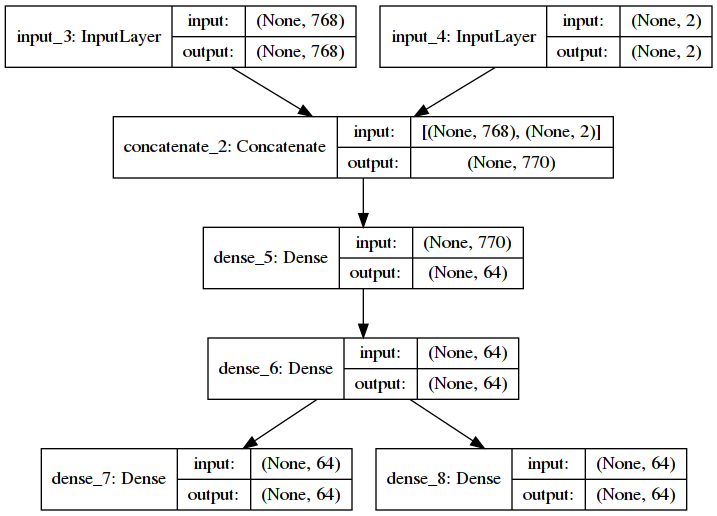
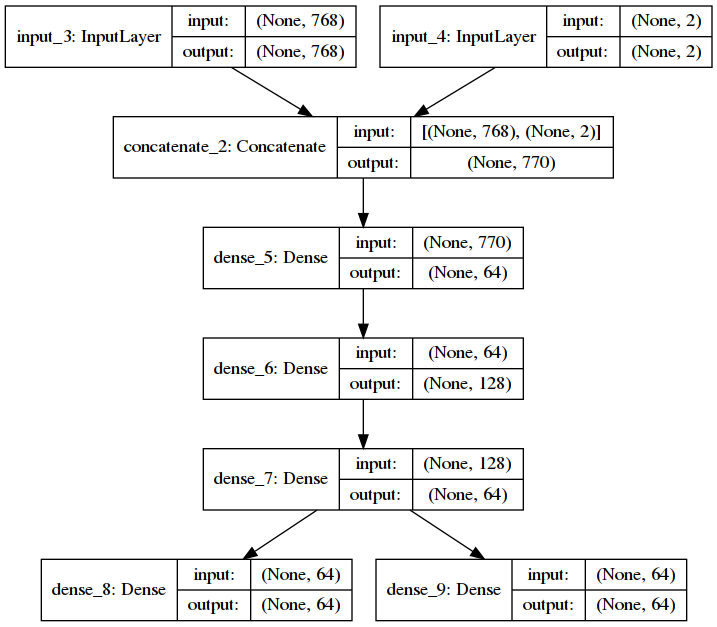
Let it be for now

Changed region(s): [[0.0, 0.0, 1.0, 0.9922]]

diff --git a/nn.py b/nn.py
@@ -20,15 +20,16 @@ PIECE_MOBILITY = {
 
 
 class NN(object):
-    def __init__(self, filename) -> None:
+    def __init__(self, filename, param) -> None:
         super().__init__()
+        self._learning_data = []
+        self._opps_mobility = 0
+        self._param = param
         if os.path.exists(filename):
             self._model = models.load_model(filename)
         else:
             self._model = self._get_nn()
         self._model.summary(print_fn=logging.debug)
-        self._learning_data = []
-        self._opps_mobility = 0
 
     def save(self, filename):
         self._model.save(filename, overwrite=True)
@@ -38,8 +39,11 @@ class NN(object):
         regulation = layers.Input(shape=(2,))  # 12 is len of PIECE_MAP
         inputs = concatenate([positions, regulation])
 
-        hidden = layers.Dense(64, activation="sigmoid")(inputs)
-        hidden = layers.Dense(64, activation="sigmoid")(hidden)
+        size = 64
+        hidden = layers.Dense(size, activation="sigmoid")(inputs)
+        if self._param:
+            hidden = layers.Dense(size * 2, activation="sigmoid")(hidden)
+        hidden = layers.Dense(size, activation="sigmoid")(hidden)
 
         out_from = layers.Dense(64, activation="tanh")(hidden)
         out_to = layers.Dense(64, activation="tanh")(hidden)
@@ -89,7 +93,7 @@ class NN(object):
 
     def learn(self, result, side_coef):
         filtered = True
-        batch_len = len([x for x in self._learning_data if x['score']])
+        batch_len = len(self._learning_data)
         if not batch_len:
             logging.warning("No changes to learn from!")
             filtered = False
@@ -105,27 +109,37 @@ class NN(object):
         batch_n = 0
         ms = 0
         ns = 0
-        for rec in self._learning_data:
+        prev_score = 0
+        while self._learning_data:
+            rec = self._learning_data.pop(0)
+            if not self._learning_data and not rec['score'] and result:
+                rec['score'] = result
+                prev_score = 0
+
             if not rec['score'] and filtered:
                 continue
+
             inputs_pos[batch_n] = self.piece_placement_map(rec['board']).flatten()
             inputs_regul[batch_n][0] = rec['halfmove']
             inputs_regul[batch_n][1] = rec['fullmove']
 
-            ms = max(ms, rec['score'])
-            ns = min(ns, rec['score'])
-            score = rec['score'] / 64.0
+            score = rec['score'] - prev_score
+            ms = max(ms, score)
+            ns = min(ns, score)
+            score = score / 8.0
             if abs(score) > 1.0:
                 score = np.sign(score)
+
             out_from[batch_n][rec['move'].from_square] = score
             out_to[batch_n][rec['move'].to_square] = score
             batch_n += 1
+            prev_score = rec['score']
 
         res = self._model.fit(inputs, outputs, batch_size=batch_len, epochs=1, verbose=False)
         # logging.debug("Trained: %s", [res.history[key] for key in res.history if key.endswith("_acc")])
         # logging.debug("Trained: %s", res.history['loss'])
         # logging.debug("Scores: %.1f/%.1f", ns, ms)
-        self._learning_data.clear()
+        return prev_score
 
     def record_for_learning(self, board, selected_move):
         halfmove_score = board.halfmove_clock / 100.0
@@ -153,13 +167,7 @@ class NN(object):
         prev['material'] = self._get_material_balance(board)
         our_mobility = self._get_mobility(board)
         prev['mobility'] = our_mobility - self._opps_mobility
-        if len(self._learning_data) > 1:
-            material_change = prev['material'] - self._learning_data[-2]['material']
-            mobility_change = prev['mobility'] - self._learning_data[-2]['mobility']
-        else:
-            material_change = 0
-            mobility_change = prev['mobility']
-        score = mobility_change / 10.0 + side_coef * material_change
+        score = prev['mobility'] / 10.0 + side_coef * prev['material']
         # logging.debug("Move of %s: %s %s", side_coef, prev['move'].san, score)
         prev['score'] = score
 
@@ -195,5 +203,5 @@ class NN(object):
 
             dest_piece = board.piece_at(move.to_square)
             if dest_piece:  # attack bonus
-                score += PIECE_MOBILITY[dest_piece.symbol().upper()]
+                score += PIECE_MOBILITY[dest_piece.symbol().upper()] / 2.0
         return score

diff --git a/program.py b/program.py
@@ -6,7 +6,7 @@ from chess import STARTING_FEN, Board, pgn
 from player import Player
 
 
-def record_results(brd, rnd):
+def record_results(brd, rnd, eval1, eval2):
     journal = pgn.Game.from_board(brd)
     journal.headers.clear()
     journal.headers["White"] = "Lisa"
@@ -28,8 +28,8 @@ def record_results(brd, rnd):
 
     # exporter = pgn.StringExporter(headers=True, variations=True, comments=True)
     # logging.info("\n%s", journal.accept(exporter))
-    logging.info("Game #%d: %s by %s, %d moves", rnd, journal.headers["Result"], journal.end().comment,
-                 brd.fullmove_number)
+    logging.info("Game #%d: %s by %s, %d moves, %.1f/%.1f", rnd, journal.headers["Result"], journal.end().comment,
+                 brd.fullmove_number, eval1, eval2)
     with open("last.pgn", "w") as out:
         exporter = pgn.FileExporter(out)
         journal.accept(exporter)
@@ -40,11 +40,10 @@ def play_one_game(pwhite, pblack, rnd):
     pwhite.board = board
     pblack.board = board
 
-    while pwhite.makes_move() and pblack.makes_move():
+    while pwhite.makes_move() and pblack.makes_move() and board.fullmove_number < 150:
         pass
 
-    record_results(board, rnd)
-    return board
+    record_results(board, rnd, pwhite.learn(), pblack.learn())
 
 
 if __name__ == "__main__":
@@ -57,7 +56,4 @@ if __name__ == "__main__":
     rnd = 1
     while True:
         play_one_game(white, black, rnd)
-
-        white.learn()
-        black.learn()
         rnd += 1

diff --git a/player.py b/player.py
@@ -16,7 +16,7 @@ class Player(object):
         super().__init__()
         self.piece_index = piece_index
         self.board = None
-        self.nn = NN("%s.hdf5" % self.piece_index)
+        self.nn = NN("%s.hdf5" % self.piece_index, piece_index)
 
     def makes_move(self):
         self.nn.after_their_move(self.board, -1 if self.piece_index else 1)
@@ -26,8 +26,6 @@ class Player(object):
         self.board.push(move)
         self.nn.after_our_move(self.board)
         not_over = move and not self.board.is_game_over(claim_draw=True)
-        if not not_over:  # TODO: handle mate
-            self.nn.after_their_move(self.board, -1 if self.piece_index else 1)
         return not_over
 
     def _choose_best_move(self):
@@ -66,8 +64,9 @@ class Player(object):
         elif result == '0-1':
             score = 1 if self.piece_index else -1
         else:
-            score = 1.0 / self.board.fullmove_number - 0.5  # we play to win, not to draw
+            score = 0
 
         # logging.debug("Player #%s is learning...", self.piece_index)
-        self.nn.learn(score, -1 if self.piece_index else 1)
+        last_eval = self.nn.learn(score, -1 if self.piece_index else 1)
         self.nn.save("%s.hdf5" % self.piece_index)
+        return last_eval

diff --git a/api.py b/api.py
@@ -82,7 +82,4 @@ if __name__ == "__main__":
     cnt = 1
     while True:
         play_one_game(white, black, cnt)
-
-        white.learn()
-        black.learn()
         cnt += 1
